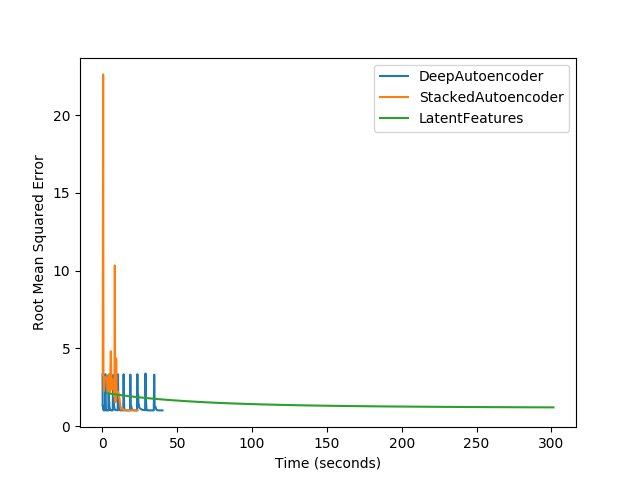
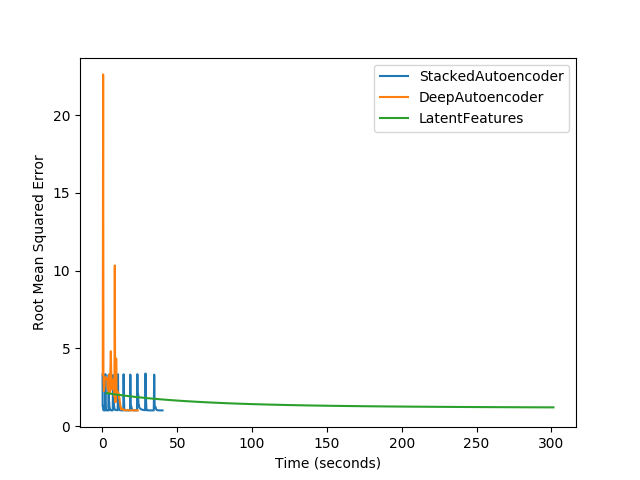
Time plot added

Changed region(s): [[0.6562, 0.125, 0.875, 0.2188]]

diff --git a/plotTime.py b/plotTime.py
@@ -44,6 +44,6 @@ with open("images/Time_Error.txt", "r") as f:
     plot_data_dev.append(timeError(stacked[2:4]))
     plot_data_dev.append(timeError(latent[2:4]))
  
-    labels  = ['DeepAutoencoder', 'StackedAutoencoder', 'LatentFeatures']
+    labels  = ['StackedAutoencoder', 'DeepAutoencoder', 'LatentFeatures']
     plot_images(plot_data_train,    labels, "Time (seconds)", "Root Mean Squared Error", "images/Time_Error_Train.png")
     plot_images(plot_data_dev,      labels, "Time (seconds)", "Root Mean Squared Error", "images/Time_Error_Dev.png")
